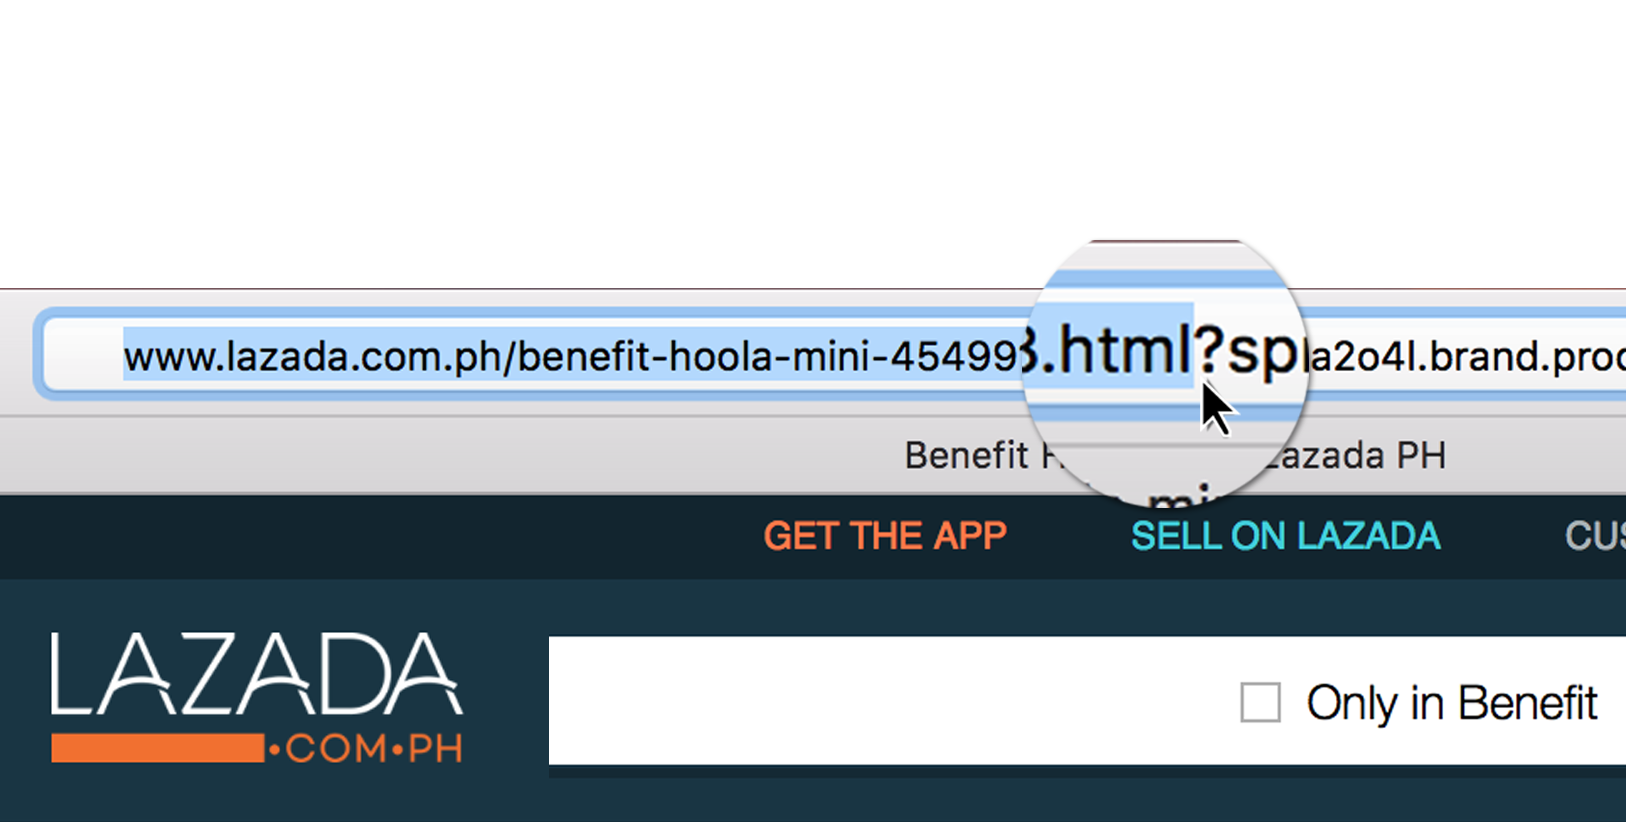
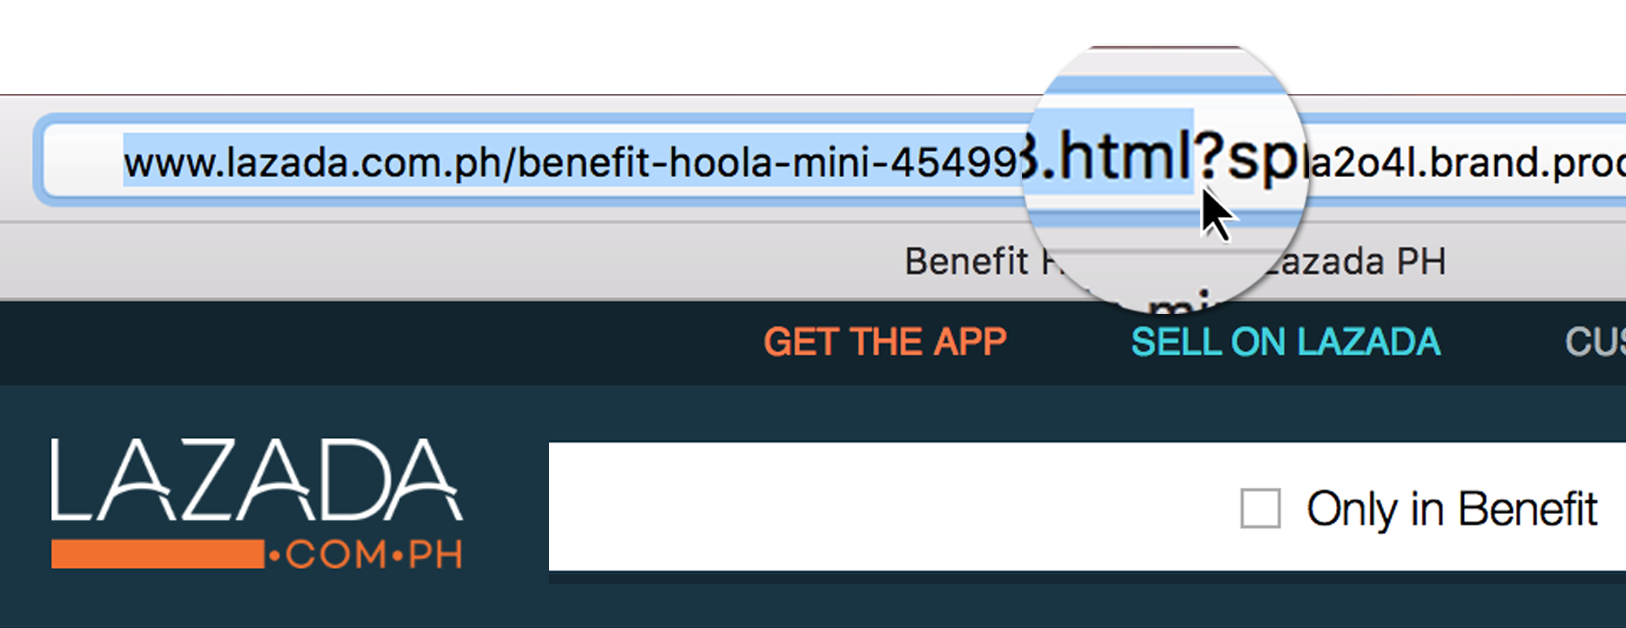
Push to Live

diff --git a/index.html b/index.html
@@ -125,7 +125,7 @@ Link to the quiz: bit.ly/lapquiz</p>Posted by <a href="https://www.facebook.com/
       <h4>Select a Product</h4>
       <p>Pick a product to promote from <a href="www.lazada.com.ph">Lazada</a> that is relevant to your article.<br><strong>Copy the product page's URL</strong> up to the "html" part only.</p>
 
-      <img src="https://gallery.mailchimp.com/bdfe87449c9a116132fc8fca9/images/54c126c0-9c65-4874-978d-0f75bd080763.png" alt="Image for Browse/Search" class="full-size">
+      <img src="https://gallery.mailchimp.com/bdfe87449c9a116132fc8fca9/images/9fa825af-c2f3-44ac-82f2-4ebb540ba80b.png" alt="Image for Browse/Search" class="full-size">
 
     </li>
 
@@ -133,7 +133,7 @@ Link to the quiz: bit.ly/lapquiz</p>Posted by <a href="https://www.facebook.com/
       <h4>Login</h4>
       <p>Login to your account at <a href="www.lazada.hasoffers.com">Lazada.hasoffers.com</a>. <br><strong>Click on Offers</strong> then <strong>Browse/Search.</strong></p>
 
-      <img src="https://gallery.mailchimp.com/bdfe87449c9a116132fc8fca9/images/2aac2ed5-631d-4447-a5c9-f7b8259ed543.png" alt="Image for Browse/Search" class="full-size">
+      <img src="https://gallery.mailchimp.com/bdfe87449c9a116132fc8fca9/images/5cab4741-b821-4f2e-b185-c9aa5ba26ac6.png" alt="Image for Browse/Search" class="full-size">
 
     </li>
 
@@ -142,7 +142,7 @@ Link to the quiz: bit.ly/lapquiz</p>Posted by <a href="https://www.facebook.com/
       <p>In the search box, type in <strong>PH Deeplink Generator</strong> and click on the one with <strong>ID 285</strong>.</p>
 
       <p class="details">*Tip it's faster to search by code #, try typing <strong>285</strong> instead in the search box.</p>
-      <img src="https://gallery.mailchimp.com/bdfe87449c9a116132fc8fca9/images/0fb78363-e370-4a2c-9712-bcb2969f8312.png" alt="Image for PH Deeplink Generator" class="full-size">
+      <img src="https://gallery.mailchimp.com/bdfe87449c9a116132fc8fca9/images/c62edb66-48d2-4511-9d5f-66bd650533ff.png" alt="Image for PH Deeplink Generator" class="full-size">
 
 
     </li>
@@ -158,7 +158,7 @@ Link to the quiz: bit.ly/lapquiz</p>Posted by <a href="https://www.facebook.com/
       <h4>In Browse/Search...</h4>
       <p>Click on <strong>Browse by Category</strong>, then <strong>Philippine Offers</strong>.<br>Press <strong>Apply</strong>.</p>
 
-      <img src="https://gallery.mailchimp.com/bdfe87449c9a116132fc8fca9/images/7d76687c-3052-47d5-ac4f-2d936bca97eb.png" alt="Image for Banners" class="full-size">
+      <img src="https://gallery.mailchimp.com/bdfe87449c9a116132fc8fca9/images/8e4b7991-284f-4bed-93d5-6f7f62d919b8.png" alt="Image for Banners" class="full-size">
 
     </li>
 
@@ -232,7 +232,7 @@ Link to the quiz: bit.ly/lapquiz</p>Posted by <a href="https://www.facebook.com/
       <h4>Find a product</h4>
       <p>Select a product to promote from <a href="www.lazada.com.ph">Lazada</a> that is relevant to your article, for this tutorial, we're going to pick a baby crib for a mommy site.<br><strong>Copy the product page's URL</strong> up to the "html" part only.</p>
 
-      <img src="https://gallery.mailchimp.com/bdfe87449c9a116132fc8fca9/images/54c126c0-9c65-4874-978d-0f75bd080763.png" alt="Image for Browse/Search" class="full-size">
+      <img src="https://gallery.mailchimp.com/bdfe87449c9a116132fc8fca9/images/5cab4741-b821-4f2e-b185-c9aa5ba26ac6.png" alt="Image for Browse/Search" class="full-size">
 
     </li>
 
@@ -241,7 +241,7 @@ Link to the quiz: bit.ly/lapquiz</p>Posted by <a href="https://www.facebook.com/
       <p>Login to your account at <a href="www.lazada.hasoffers.com">Lazada.hasoffers.com</a>. <br><strong>Click on Offers</strong> then <strong>Browse/Search.</strong></p>
 
 
-      <img src="https://gallery.mailchimp.com/bdfe87449c9a116132fc8fca9/images/2aac2ed5-631d-4447-a5c9-f7b8259ed543.png" alt="Image for Browse/Search" class="full-size">
+      <img src="https://gallery.mailchimp.com/bdfe87449c9a116132fc8fca9/images/5cab4741-b821-4f2e-b185-c9aa5ba26ac6.png" alt="Image for Browse/Search" class="full-size">
     </li>
 
     <li class="youtube-link hidden animate-in">
@@ -249,7 +249,7 @@ Link to the quiz: bit.ly/lapquiz</p>Posted by <a href="https://www.facebook.com/
       <p>In the search box, type in <strong>PH Deeplink Generator</strong> and click on the one with <strong>ID 285</strong>.</p>
 
       <p class="details">*Tip it's faster to search by code #, try typing <strong>285</strong> instead in the search box.</p>
-	  <img src="https://gallery.mailchimp.com/bdfe87449c9a116132fc8fca9/images/0fb78363-e370-4a2c-9712-bcb2969f8312.png" alt="Image for PH Deeplink Generator" class="full-size">
+	  <img src="https://gallery.mailchimp.com/bdfe87449c9a116132fc8fca9/images/c62edb66-48d2-4511-9d5f-66bd650533ff.png" alt="Image for PH Deeplink Generator" class="full-size">
 
     </li>
 
